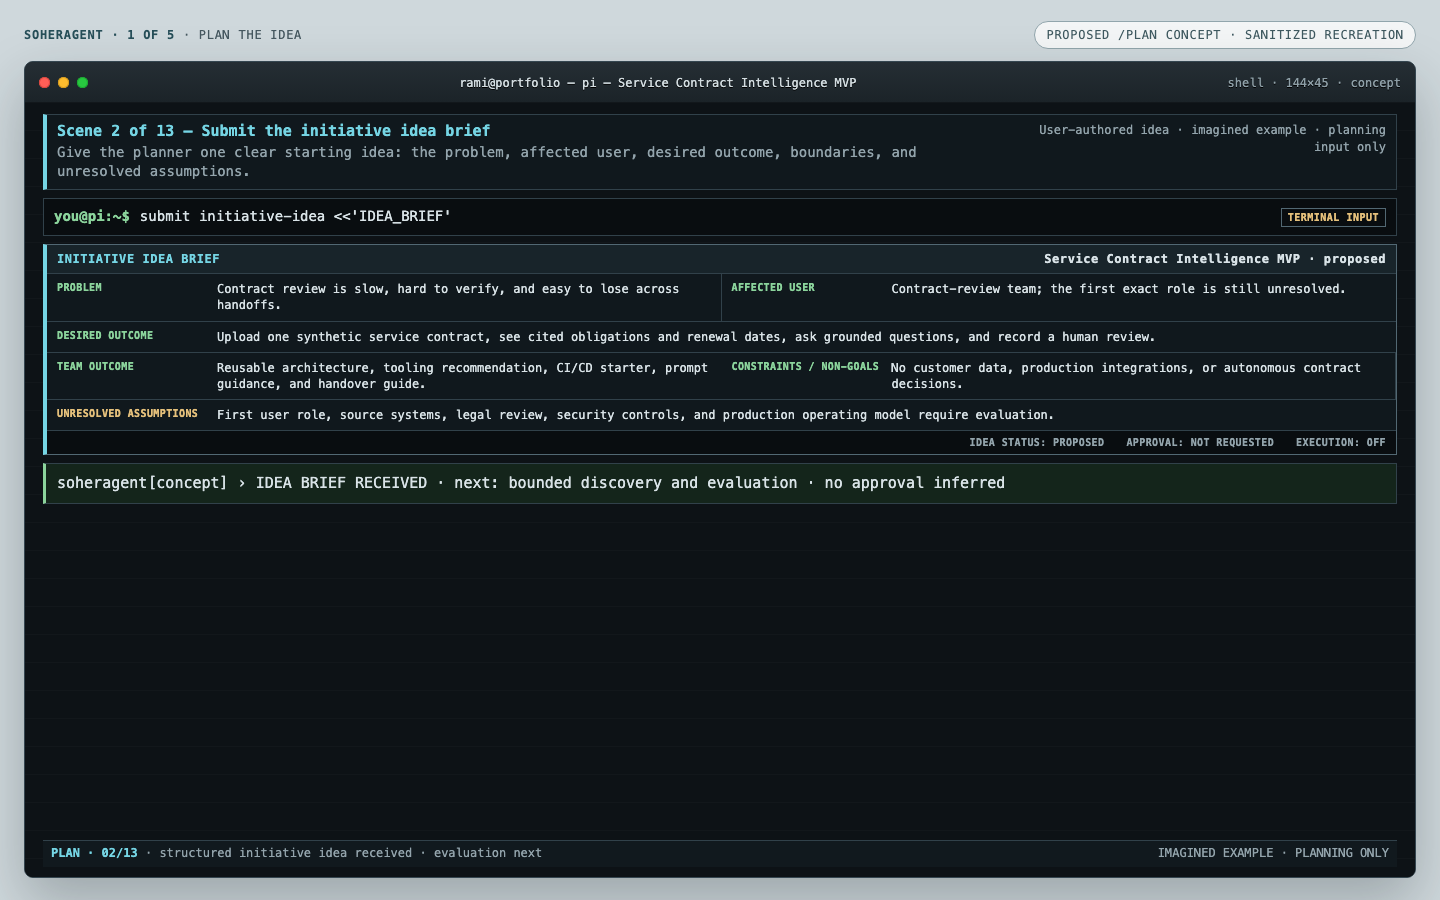
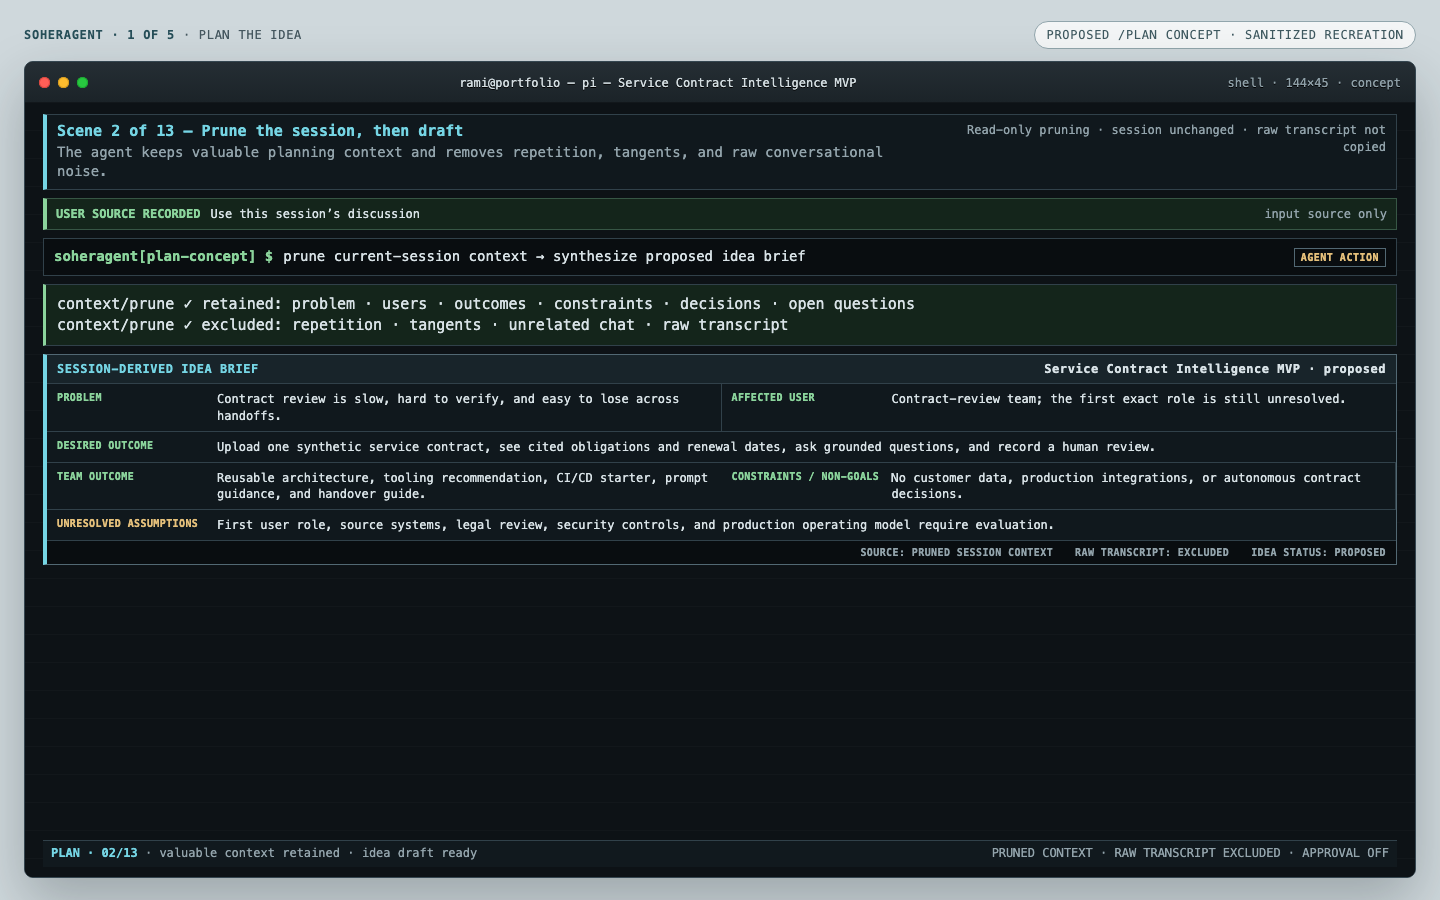
Add Plan source selector and session pruning

diff --git a/projects/pi-agent-harness.html b/projects/pi-agent-harness.html
@@ -25,48 +25,48 @@
 <button class="demo-tab" id="demo-tab-4" role="tab" aria-selected="false" aria-controls="demo-panel-4" tabindex="-1"><span class="demo-tab-number">04</span><span><strong>Deliver</strong><span>Current /yolo behavior</span></span></button>
 <button class="demo-tab" id="demo-tab-5" role="tab" aria-selected="false" aria-controls="demo-panel-5" tabindex="-1"><span class="demo-tab-number">05</span><span><strong>Verify</strong><span>Actual captured results</span></span></button>
 </div><div class="demo-stage"><section class="demo-panel" id="demo-panel-1" role="tabpanel" aria-labelledby="demo-tab-1" data-workflow-demo>
-  <video controls playsinline preload="metadata" poster="../evidence/pi-agent-harness/terminal-01-describe-poster.png?v=initiative-brief-v1" aria-label="Sanitized concept recreation of proposed plan automation developing a Service Contract Intelligence MVP idea"><source src="../evidence/pi-agent-harness/terminal-01-describe.webm?v=initiative-brief-v1" type="video/webm">Your browser cannot play this recording.</video>
-  <nav class="demo-filmstrip" aria-label="Plan idea chapters"><a class="demo-chapter" href="../evidence/pi-agent-harness/terminal-01-describe.html?transcript=1&amp;v=initiative-brief-v1#scene-01" data-chapter-start="0">
-  <img loading="lazy" decoding="async" width="240" height="150" src="../evidence/pi-agent-harness/terminal-01-describe-scene-01.png?v=initiative-brief-v1" alt="">
-  <span><strong>User: run /plan on</strong><span>0:00</span></span>
-</a><a class="demo-chapter" href="../evidence/pi-agent-harness/terminal-01-describe.html?transcript=1&amp;v=initiative-brief-v1#scene-02" data-chapter-start="7">
-  <img loading="lazy" decoding="async" width="240" height="150" src="../evidence/pi-agent-harness/terminal-01-describe-scene-02.png?v=initiative-brief-v1" alt="">
-  <span><strong>User: submit idea brief</strong><span>0:07</span></span>
-</a><a class="demo-chapter" href="../evidence/pi-agent-harness/terminal-01-describe.html?transcript=1&amp;v=initiative-brief-v1#scene-03" data-chapter-start="14">
-  <img loading="lazy" decoding="async" width="240" height="150" src="../evidence/pi-agent-harness/terminal-01-describe-scene-03.png?v=initiative-brief-v1" alt="">
+  <video controls playsinline preload="metadata" poster="../evidence/pi-agent-harness/terminal-01-describe-poster.png?v=plan-source-v1" aria-label="Sanitized concept recreation of proposed plan automation developing a Service Contract Intelligence MVP idea"><source src="../evidence/pi-agent-harness/terminal-01-describe.webm?v=plan-source-v1" type="video/webm">Your browser cannot play this recording.</video>
+  <nav class="demo-filmstrip" aria-label="Plan idea chapters"><a class="demo-chapter" href="../evidence/pi-agent-harness/terminal-01-describe.html?transcript=1&amp;v=plan-source-v1#scene-01" data-chapter-start="0">
+  <img loading="lazy" decoding="async" width="240" height="150" src="../evidence/pi-agent-harness/terminal-01-describe-scene-01.png?v=plan-source-v1" alt="">
+  <span><strong>User: open /plan selector</strong><span>0:00</span></span>
+</a><a class="demo-chapter" href="../evidence/pi-agent-harness/terminal-01-describe.html?transcript=1&amp;v=plan-source-v1#scene-02" data-chapter-start="7">
+  <img loading="lazy" decoding="async" width="240" height="150" src="../evidence/pi-agent-harness/terminal-01-describe-scene-02.png?v=plan-source-v1" alt="">
+  <span><strong>Agent: prune session + draft</strong><span>0:07</span></span>
+</a><a class="demo-chapter" href="../evidence/pi-agent-harness/terminal-01-describe.html?transcript=1&amp;v=plan-source-v1#scene-03" data-chapter-start="14">
+  <img loading="lazy" decoding="async" width="240" height="150" src="../evidence/pi-agent-harness/terminal-01-describe-scene-03.png?v=plan-source-v1" alt="">
   <span><strong>Agent: discover ideas</strong><span>0:14</span></span>
-</a><a class="demo-chapter" href="../evidence/pi-agent-harness/terminal-01-describe.html?transcript=1&amp;v=initiative-brief-v1#scene-04" data-chapter-start="21">
-  <img loading="lazy" decoding="async" width="240" height="150" src="../evidence/pi-agent-harness/terminal-01-describe-scene-04.png?v=initiative-brief-v1" alt="">
+</a><a class="demo-chapter" href="../evidence/pi-agent-harness/terminal-01-describe.html?transcript=1&amp;v=plan-source-v1#scene-04" data-chapter-start="21">
+  <img loading="lazy" decoding="async" width="240" height="150" src="../evidence/pi-agent-harness/terminal-01-describe-scene-04.png?v=plan-source-v1" alt="">
   <span><strong>Agent: explain + clarify</strong><span>0:21</span></span>
-</a><a class="demo-chapter" href="../evidence/pi-agent-harness/terminal-01-describe.html?transcript=1&amp;v=initiative-brief-v1#scene-05" data-chapter-start="28">
-  <img loading="lazy" decoding="async" width="240" height="150" src="../evidence/pi-agent-harness/terminal-01-describe-scene-05.png?v=initiative-brief-v1" alt="">
+</a><a class="demo-chapter" href="../evidence/pi-agent-harness/terminal-01-describe.html?transcript=1&amp;v=plan-source-v1#scene-05" data-chapter-start="28">
+  <img loading="lazy" decoding="async" width="240" height="150" src="../evidence/pi-agent-harness/terminal-01-describe-scene-05.png?v=plan-source-v1" alt="">
   <span><strong>Agent applies answer</strong><span>0:28</span></span>
-</a><a class="demo-chapter" href="../evidence/pi-agent-harness/terminal-01-describe.html?transcript=1&amp;v=initiative-brief-v1#scene-06" data-chapter-start="35">
-  <img loading="lazy" decoding="async" width="240" height="150" src="../evidence/pi-agent-harness/terminal-01-describe-scene-06.png?v=initiative-brief-v1" alt="">
+</a><a class="demo-chapter" href="../evidence/pi-agent-harness/terminal-01-describe.html?transcript=1&amp;v=plan-source-v1#scene-06" data-chapter-start="35">
+  <img loading="lazy" decoding="async" width="240" height="150" src="../evidence/pi-agent-harness/terminal-01-describe-scene-06.png?v=plan-source-v1" alt="">
   <span><strong>Agent: explain + ask name</strong><span>0:35</span></span>
-</a><a class="demo-chapter" href="../evidence/pi-agent-harness/terminal-01-describe.html?transcript=1&amp;v=initiative-brief-v1#scene-07" data-chapter-start="42">
-  <img loading="lazy" decoding="async" width="240" height="150" src="../evidence/pi-agent-harness/terminal-01-describe-scene-07.png?v=initiative-brief-v1" alt="">
+</a><a class="demo-chapter" href="../evidence/pi-agent-harness/terminal-01-describe.html?transcript=1&amp;v=plan-source-v1#scene-07" data-chapter-start="42">
+  <img loading="lazy" decoding="async" width="240" height="150" src="../evidence/pi-agent-harness/terminal-01-describe-scene-07.png?v=plan-source-v1" alt="">
   <span><strong>Agent: explain implementers</strong><span>0:42</span></span>
-</a><a class="demo-chapter" href="../evidence/pi-agent-harness/terminal-01-describe.html?transcript=1&amp;v=initiative-brief-v1#scene-08" data-chapter-start="49">
-  <img loading="lazy" decoding="async" width="240" height="150" src="../evidence/pi-agent-harness/terminal-01-describe-scene-08.png?v=initiative-brief-v1" alt="">
+</a><a class="demo-chapter" href="../evidence/pi-agent-harness/terminal-01-describe.html?transcript=1&amp;v=plan-source-v1#scene-08" data-chapter-start="49">
+  <img loading="lazy" decoding="async" width="240" height="150" src="../evidence/pi-agent-harness/terminal-01-describe-scene-08.png?v=plan-source-v1" alt="">
   <span><strong>Select Hermes reviewer</strong><span>0:49</span></span>
-</a><a class="demo-chapter" href="../evidence/pi-agent-harness/terminal-01-describe.html?transcript=1&amp;v=initiative-brief-v1#scene-09" data-chapter-start="56">
-  <img loading="lazy" decoding="async" width="240" height="150" src="../evidence/pi-agent-harness/terminal-01-describe-scene-09.png?v=initiative-brief-v1" alt="">
+</a><a class="demo-chapter" href="../evidence/pi-agent-harness/terminal-01-describe.html?transcript=1&amp;v=plan-source-v1#scene-09" data-chapter-start="56">
+  <img loading="lazy" decoding="async" width="240" height="150" src="../evidence/pi-agent-harness/terminal-01-describe-scene-09.png?v=plan-source-v1" alt="">
   <span><strong>Agent assembles proposal</strong><span>0:56</span></span>
-</a><a class="demo-chapter" href="../evidence/pi-agent-harness/terminal-01-describe.html?transcript=1&amp;v=initiative-brief-v1#scene-10" data-chapter-start="63">
-  <img loading="lazy" decoding="async" width="240" height="150" src="../evidence/pi-agent-harness/terminal-01-describe-scene-10.png?v=initiative-brief-v1" alt="">
+</a><a class="demo-chapter" href="../evidence/pi-agent-harness/terminal-01-describe.html?transcript=1&amp;v=plan-source-v1#scene-10" data-chapter-start="63">
+  <img loading="lazy" decoding="async" width="240" height="150" src="../evidence/pi-agent-harness/terminal-01-describe-scene-10.png?v=plan-source-v1" alt="">
   <span><strong>Agent explains → user authorizes</strong><span>1:03</span></span>
-</a><a class="demo-chapter" href="../evidence/pi-agent-harness/terminal-01-describe.html?transcript=1&amp;v=initiative-brief-v1#scene-11" data-chapter-start="70">
-  <img loading="lazy" decoding="async" width="240" height="150" src="../evidence/pi-agent-harness/terminal-01-describe-scene-11.png?v=initiative-brief-v1" alt="">
+</a><a class="demo-chapter" href="../evidence/pi-agent-harness/terminal-01-describe.html?transcript=1&amp;v=plan-source-v1#scene-11" data-chapter-start="70">
+  <img loading="lazy" decoding="async" width="240" height="150" src="../evidence/pi-agent-harness/terminal-01-describe-scene-11.png?v=plan-source-v1" alt="">
   <span><strong>Parent writes + verifies</strong><span>1:10</span></span>
-</a><a class="demo-chapter" href="../evidence/pi-agent-harness/terminal-01-describe.html?transcript=1&amp;v=initiative-brief-v1#scene-12" data-chapter-start="77">
-  <img loading="lazy" decoding="async" width="240" height="150" src="../evidence/pi-agent-harness/terminal-01-describe-scene-12.png?v=initiative-brief-v1" alt="">
+</a><a class="demo-chapter" href="../evidence/pi-agent-harness/terminal-01-describe.html?transcript=1&amp;v=plan-source-v1#scene-12" data-chapter-start="77">
+  <img loading="lazy" decoding="async" width="240" height="150" src="../evidence/pi-agent-harness/terminal-01-describe-scene-12.png?v=plan-source-v1" alt="">
   <span><strong>Terminal reports result</strong><span>1:17</span></span>
-</a><a class="demo-chapter" href="../evidence/pi-agent-harness/terminal-01-describe.html?transcript=1&amp;v=initiative-brief-v1#scene-13" data-chapter-start="84">
-  <img loading="lazy" decoding="async" width="240" height="150" src="../evidence/pi-agent-harness/terminal-01-describe-scene-13.png?v=initiative-brief-v1" alt="">
+</a><a class="demo-chapter" href="../evidence/pi-agent-harness/terminal-01-describe.html?transcript=1&amp;v=plan-source-v1#scene-13" data-chapter-start="84">
+  <img loading="lazy" decoding="async" width="240" height="150" src="../evidence/pi-agent-harness/terminal-01-describe-scene-13.png?v=plan-source-v1" alt="">
   <span><strong>Obsidian: approved idea</strong><span>1:24</span></span>
 </a></nav>
-  <div class="demo-panel-footer"><p>Proposed <code>/plan</code> concept, sanitized: after approval and verification, Scene 13 opens the generated idea as an Obsidian-rendered Markdown note.</p><a href="../evidence/pi-agent-harness/terminal-01-describe.html?transcript=1&amp;v=initiative-brief-v1">Open transcript</a></div>
+  <div class="demo-panel-footer"><p>Proposed <code>/plan</code> concept, sanitized: one selector can prune this session, open a fill/paste popup, continue existing planning, or cancel; after approval, Scene 13 opens the generated Obsidian note.</p><a href="../evidence/pi-agent-harness/terminal-01-describe.html?transcript=1&amp;v=plan-source-v1">Open transcript</a></div>
 </section><section class="demo-panel" id="demo-panel-2" role="tabpanel" aria-labelledby="demo-tab-2" data-workflow-demo>
   <video controls playsinline preload="metadata" poster="../evidence/pi-agent-harness/terminal-02-review-poster.png?v=terminal-story-v2" aria-label="Sanitized concept recreation of proposed plan automation developing the Service Contract Intelligence MVP specification and tickets"><source src="../evidence/pi-agent-harness/terminal-02-review.webm?v=terminal-story-v2" type="video/webm">Your browser cannot play this recording.</video>
   <nav class="demo-filmstrip" aria-label="Plan delivery chapters"><a class="demo-chapter" href="../evidence/pi-agent-harness/terminal-02-review.html?transcript=1&amp;v=terminal-story-v2#scene-01" data-chapter-start="0">

diff --git a/evidence/pi-agent-harness/terminal-01-describe.html b/evidence/pi-agent-harness/terminal-01-describe.html
@@ -1,11 +1,11 @@
 <!doctype html>
-<html lang="en" data-mode="transcript" data-terminal-ui="shell-v2"><head><meta charset="utf-8"><meta name="viewport" content="width=device-width, initial-scale=1"><title>Plan the idea</title><script src="terminal-demo.js"></script><link rel="stylesheet" href="terminal-demo.css"><link rel="stylesheet" href="terminal-shell-v2.css?v=initiative-brief-v1"></head><body><main class="capture"><header class="recording-meta"><h1><strong>SoherAgent · 1 of 5</strong> · Plan the idea</h1><div class="evidence-badge">Proposed /plan concept · sanitized recreation</div></header><div class="terminal" role="region" aria-label="Sanitized concept recreation of proposed plan automation for a Service Contract Intelligence MVP"><div class="titlebar"><div class="lights"><span class="light"></span><span class="light"></span><span class="light"></span></div><div class="titlebar-title">rami@portfolio — pi — Service Contract Intelligence MVP</div><div class="titlebar-meta">shell · 144×45 · concept</div></div><div class="screen"><section class="scene" id="scene-01" data-duration="7000">
-<header class="scene-header"><div><h2 class="scene-step">Scene 1 of 13 — Turn on autonomous planning</h2><div class="scene-state">Start the proposed planner, then describe the initiative or project you want to create.</div></div><div class="scene-boundary">Proposed command · not implemented runtime evidence</div></header>
-<div class="transcript"><div class="shell-command"><span class="shell-prompt">soheragent[concept] ›</span><span><strong>/plan is proposed automation.</strong> It would sequence three reviewed planning skills while stopping for every user-owned decision.</span><span class="shell-tag">explanation</span></div><div class="turn user"><span class="speaker agent-name">you@pi:~$</span>/plan on</div><div class="shell-command"><span class="shell-prompt">soheragent[concept] ›</span><span>Planner mode staged. Describe the initiative, visible outcome, and one important limit.</span><span class="shell-tag">input needed</span></div><div class="editor"><span class="editor-label">you@pi:~$</span><span class="cursor"></span></div></div><div class="terminal-bottom"><div class="statusbar"><div class="status-main"><strong>PLAN · 01/13</strong> · waiting for initiative brief</div><div class="status-keys">PROPOSED CONCEPT · /plan NOT IMPLEMENTED · EXECUTION OFF</div></div></div></section><section class="scene" id="scene-02" data-duration="7000">
-<header class="scene-header"><div><h2 class="scene-step">Scene 2 of 13 — Submit the initiative idea brief</h2><div class="scene-state">Give the planner one clear starting idea: the problem, affected user, desired outcome, boundaries, and unresolved assumptions.</div></div><div class="scene-boundary">User-authored idea · imagined example · planning input only</div></header>
-<div class="transcript"><div class="shell-command"><span class="shell-prompt">you@pi:~$</span><span>submit initiative-idea &lt;&lt;'IDEA_BRIEF'</span><span class="shell-tag">terminal input</span></div><div class="initiative-brief" aria-label="Submitted initiative idea brief"><div class="initiative-brief-head"><span>INITIATIVE IDEA BRIEF</span><span>Service Contract Intelligence MVP · proposed</span></div><div class="initiative-brief-grid"><div class="initiative-brief-field"><strong>Problem</strong><span>Contract review is slow, hard to verify, and easy to lose across handoffs.</span></div><div class="initiative-brief-field"><strong>Affected user</strong><span>Contract-review team; the first exact role is still unresolved.</span></div><div class="initiative-brief-field wide"><strong>Desired outcome</strong><span>Upload one synthetic service contract, see cited obligations and renewal dates, ask grounded questions, and record a human review.</span></div><div class="initiative-brief-field"><strong>Team outcome</strong><span>Reusable architecture, tooling recommendation, CI/CD starter, prompt guidance, and handover guide.</span></div><div class="initiative-brief-field"><strong>Constraints / non-goals</strong><span>No customer data, production integrations, or autonomous contract decisions.</span></div><div class="initiative-brief-field wide unresolved"><strong>Unresolved assumptions</strong><span>First user role, source systems, legal review, security controls, and production operating model require evaluation.</span></div></div><div class="initiative-brief-foot"><span>idea status: proposed</span><span>approval: not requested</span><span>execution: off</span></div></div><div class="command-output success">soheragent[concept] › IDEA BRIEF RECEIVED · next: bounded discovery and evaluation · no approval inferred</div></div><div class="terminal-bottom"><div class="statusbar"><div class="status-main"><strong>PLAN · 02/13</strong> · structured initiative idea received · evaluation next</div><div class="status-keys">IMAGINED EXAMPLE · PLANNING ONLY</div></div></div></section><section class="scene" id="scene-03" data-duration="7000">
-<header class="scene-header"><div><h2 class="scene-step">Scene 3 of 13 — Load idea planning</h2><div class="scene-state">After the brief, /plan automatically loads develop-obsidian-idea.</div></div><div class="scene-boundary">Internal skill step · candidate-first discovery</div></header>
-<div class="transcript"><div class="shell-command"><span class="shell-prompt">soheragent[plan-concept] $</span><span>run bounded idea discovery for the submitted brief</span><span class="shell-tag">internal action</span></div><div class="action-list"><div class="action done"><span class="action-label">agent/load</span><span>Load develop-obsidian-idea internally</span><span class="action-state">ready</span></div><div class="action done"><span class="action-label">agent/search</span><span>Inspect bounded active ideas and initiative Inbox candidates</span><span class="action-state">complete</span></div><div class="action done"><span class="action-label">agent/match</span><span>No canonical existing idea exactly matches this brief</span><span class="action-state">new capture</span></div><div class="action stop"><span class="action-label">boundary</span><span>Do not create specification, handoff, lease, or worker</span><span class="action-state">blocked</span></div></div></div><div class="terminal-bottom"><div class="statusbar"><div class="status-main"><strong>PLAN · 03/13</strong> · autonomous discovery complete · clarification next</div><div class="status-keys">AGENT ACTION LOG · CONCEPT RECREATION</div></div></div></section><section class="scene" id="scene-04" data-duration="7000">
+<html lang="en" data-mode="transcript" data-terminal-ui="shell-v2"><head><meta charset="utf-8"><meta name="viewport" content="width=device-width, initial-scale=1"><title>Plan the idea</title><script src="terminal-demo.js"></script><link rel="stylesheet" href="terminal-demo.css"><link rel="stylesheet" href="terminal-shell-v2.css?v=plan-source-v1"></head><body><main class="capture"><header class="recording-meta"><h1><strong>SoherAgent · 1 of 5</strong> · Plan the idea</h1><div class="evidence-badge">Proposed /plan concept · sanitized recreation</div></header><div class="terminal" role="region" aria-label="Sanitized concept recreation of proposed plan automation for a Service Contract Intelligence MVP"><div class="titlebar"><div class="lights"><span class="light"></span><span class="light"></span><span class="light"></span></div><div class="titlebar-title">rami@portfolio — pi — Service Contract Intelligence MVP</div><div class="titlebar-meta">shell · 144×45 · concept</div></div><div class="screen"><section class="scene" id="scene-01" data-duration="7000">
+<header class="scene-header"><div><h2 class="scene-step">Scene 1 of 13 — Open the /plan source selector</h2><div class="scene-state">Run one command, then choose where the starting idea should come from.</div></div><div class="scene-boundary">Proposed selector · not implemented runtime evidence</div></header>
+<div class="transcript"><div class="shell-command"><span class="shell-prompt">soheragent[concept] ›</span><span><strong>/plan on opens a source selector.</strong> It never requires a second terminal command to submit the idea.</span><span class="shell-tag">explanation</span></div><div class="turn user"><span class="speaker agent-name">you@pi:~$</span>/plan on</div><div class="ask-overlay" role="group" aria-label="Static proposed /plan source selector, scene 1 of 13"><div class="ask-title"><span>/plan · choose planning source</span><span class="ask-version">proposed selector</span></div><div><div class="ask-prompt"><strong>One source selection</strong><br>How should /plan get the starting idea?</div><div class="ask-search">⌕ Filter options</div></div><div class="ask-body"><div class="ask-options"><div class="ask-option selected"><span>></span><span>Use this session’s discussion<small>Prune it to valuable context, then draft the idea</small></span></div><div class="ask-option"><span></span><span>Submit a new idea<small>Open a multiline popup to type or paste an idea</small></span></div><div class="ask-option"><span></span><span>Continue an existing idea<small>Discover bounded active and Inbox candidates</small></span></div><div class="ask-option"><span></span><span>Cancel<small>Leave planning off and create nothing</small></span></div></div><div class="ask-detail"><strong>Focused: use this session</strong>The agent first prunes repetition and unrelated discussion, retains valuable planning facts, then shows a proposed brief. “Submit a new idea” opens a fill/paste editor. Pruning is read-only and does not alter the session. This choice grants no write, approval, or execution authority.</div></div><div class="ask-footer"><span>↑↓ move focus · Enter choose source · Esc cancel</span><span>source only · no idea saved</span></div></div></div><div class="terminal-bottom"><div class="statusbar"><div class="status-main"><strong>PLAN · 01/13</strong> · source selector open · session discussion focused</div><div class="status-keys">FOCUS ≠ SELECTION · PROPOSED CONCEPT · EXECUTION OFF</div></div></div></section><section class="scene" id="scene-02" data-duration="7000">
+<header class="scene-header"><div><h2 class="scene-step">Scene 2 of 13 — Prune the session, then draft</h2><div class="scene-state">The agent keeps valuable planning context and removes repetition, tangents, and raw conversational noise.</div></div><div class="scene-boundary">Read-only pruning · session unchanged · raw transcript not copied</div></header>
+<div class="transcript"><div class="decision-receipt"><strong>User source recorded</strong><span>Use this session’s discussion</span><span>input source only</span></div><div class="shell-command"><span class="shell-prompt">soheragent[plan-concept] $</span><span>prune current-session context → synthesize proposed idea brief</span><span class="shell-tag">agent action</span></div><div class="command-output success">context/prune ✓ retained: problem · users · outcomes · constraints · decisions · open questions<br>context/prune ✓ excluded: repetition · tangents · unrelated chat · raw transcript</div><div class="initiative-brief" aria-label="Pruned session-derived initiative idea brief"><div class="initiative-brief-head"><span>SESSION-DERIVED IDEA BRIEF</span><span>Service Contract Intelligence MVP · proposed</span></div><div class="initiative-brief-grid"><div class="initiative-brief-field"><strong>Problem</strong><span>Contract review is slow, hard to verify, and easy to lose across handoffs.</span></div><div class="initiative-brief-field"><strong>Affected user</strong><span>Contract-review team; the first exact role is still unresolved.</span></div><div class="initiative-brief-field wide"><strong>Desired outcome</strong><span>Upload one synthetic service contract, see cited obligations and renewal dates, ask grounded questions, and record a human review.</span></div><div class="initiative-brief-field"><strong>Team outcome</strong><span>Reusable architecture, tooling recommendation, CI/CD starter, prompt guidance, and handover guide.</span></div><div class="initiative-brief-field"><strong>Constraints / non-goals</strong><span>No customer data, production integrations, or autonomous contract decisions.</span></div><div class="initiative-brief-field wide unresolved"><strong>Unresolved assumptions</strong><span>First user role, source systems, legal review, security controls, and production operating model require evaluation.</span></div></div><div class="initiative-brief-foot"><span>source: pruned session context</span><span>raw transcript: excluded</span><span>idea status: proposed</span></div></div></div><div class="terminal-bottom"><div class="statusbar"><div class="status-main"><strong>PLAN · 02/13</strong> · valuable context retained · idea draft ready</div><div class="status-keys">PRUNED CONTEXT · RAW TRANSCRIPT EXCLUDED · APPROVAL OFF</div></div></div></section><section class="scene" id="scene-03" data-duration="7000">
+<header class="scene-header"><div><h2 class="scene-step">Scene 3 of 13 — Load idea planning</h2><div class="scene-state">After building the pruned session-derived brief, /plan automatically loads develop-obsidian-idea.</div></div><div class="scene-boundary">Internal skill step · candidate-first discovery</div></header>
+<div class="transcript"><div class="shell-command"><span class="shell-prompt">soheragent[plan-concept] $</span><span>run bounded idea discovery for the pruned session-derived brief</span><span class="shell-tag">internal action</span></div><div class="action-list"><div class="action done"><span class="action-label">agent/load</span><span>Load develop-obsidian-idea internally</span><span class="action-state">ready</span></div><div class="action done"><span class="action-label">agent/search</span><span>Inspect bounded active ideas and initiative Inbox candidates</span><span class="action-state">complete</span></div><div class="action done"><span class="action-label">agent/match</span><span>No canonical existing idea exactly matches this brief</span><span class="action-state">new capture</span></div><div class="action stop"><span class="action-label">boundary</span><span>Do not create specification, handoff, lease, or worker</span><span class="action-state">blocked</span></div></div></div><div class="terminal-bottom"><div class="statusbar"><div class="status-main"><strong>PLAN · 03/13</strong> · autonomous discovery complete · clarification next</div><div class="status-keys">AGENT ACTION LOG · CONCEPT RECREATION</div></div></div></section><section class="scene" id="scene-04" data-duration="7000">
 <header class="scene-header"><div><h2 class="scene-step">Scene 4 of 13 — Explain, then clarify</h2><div class="scene-state">The agent explains the gap, its recommendation, and the effect before asking one question.</div></div><div class="scene-boundary">Clarification only · no approval requested</div></header>
 <div class="transcript"><div class="agent-briefing"><div class="briefing-head"><span>SoherAgent · action explanation</span><span>clarification · user input needed</span></div><div class="briefing-grid"><p><strong>Observed</strong>The brief defines outcomes but does not identify the first user.</p><p><strong>Recommendation</strong>Start with a service-contract reviewer who can verify every citation.</p><p><strong>Effect of your answer</strong>Narrows workflow and acceptance checks only; grants no approval or execution.</p></div></div><div class="ask-overlay" role="group" aria-label="Static ask_user depiction, scene 4 of 13"><div class="ask-title"><span>User input required · ask_user</span><span class="ask-version">clarification 1/4</span></div><div><div class="ask-prompt"><strong>One focused question</strong><br>Who should be the first user of this MVP?</div><div class="ask-search">⌕ Filter options</div></div><div class="ask-body"><div class="ask-options"><div class="ask-option selected"><span>></span><span>Service-contract reviewer<small>Agent recommendation · currently focused</small></span></div><div class="ask-option"><span></span><span>Legal reviewer<small>Focus first on risk and clause interpretation</small></span></div><div class="ask-option"><span></span><span>Procurement analyst<small>Focus first on supplier terms and renewals</small></span></div><div class="ask-option"><span></span><span>Keep unresolved<small>Record the assumption and ask again later</small></span></div></div><div class="ask-detail"><strong>Focus is not submission</strong>Use ↑↓ to inspect another answer. Press Enter only when the intended answer is focused.</div></div><div class="ask-footer"><span>↑↓ move focus · Enter submit answer · Esc cancel · PgUp/PgDn explanation</span><span>no answer recorded yet</span></div></div></div><div class="terminal-bottom"><div class="statusbar"><div class="status-main"><strong>PLAN · 04/13</strong> · waiting for clarification answer</div><div class="status-keys">FOCUS ≠ DECISION · APPROVAL OFF · EXECUTION OFF</div></div></div></section><section class="scene" id="scene-05" data-duration="7000">
 <header class="scene-header"><div><h2 class="scene-step">Scene 5 of 13 — Apply the clarification</h2><div class="scene-state">The terminal records the answer, then the agent derives a bounded recommendation.</div></div><div class="scene-boundary">Agent analysis · no approval or mutation</div></header>